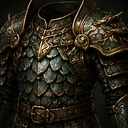
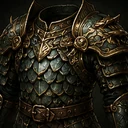
Add files via upload

diff --git a/rpg/index.html b/rpg/index.html
@@ -7,7 +7,7 @@
 <meta name="theme-color" content="#0b0d12">
 <title>貪婪深淵</title>
 <!-- 版本號集中管理：只改這一個 RPG_VER，即同步 CSS／所有 script／標題顯示的版號（破快取用） -->
-<script>window.RPG_VER='382';document.write('<link rel="stylesheet" href="style.css?v='+RPG_VER+'">');</script>
+<script>window.RPG_VER='384';document.write('<link rel="stylesheet" href="style.css?v='+RPG_VER+'">');</script>
 </head>
 <body>
 <div id="app">
@@ -52,6 +52,7 @@
     <div class="hot" data-fx=".199" data-fy=".412" data-fw=".24" data-fh=".12" onclick="openRunStats()"></div>
     <div class="hot" data-fx=".824" data-fy=".487" data-fw=".24" data-fh=".11" onclick="openSmith()"></div>
     <div class="hot" data-fx=".50" data-fy=".575" data-fw=".26" data-fh=".13" onclick="openDivePicker()"></div>
+    <!-- 圖鑑：暫時關閉（改建中）。熱區保留，openCodex 內以 CODEX_ENABLED 擋下並回 toast -->
     <div class="hot" data-fx=".324" data-fy=".693" data-fw=".22" data-fh=".11" onclick="openCodex()"></div>
     <div class="hot" data-fx=".815" data-fy=".824" data-fw=".24" data-fh=".12" onclick="if(G.rec.deep>=30)openMarket();else toast('深入 30 層後解鎖深淵黑市')"></div>
     <div class="hot" data-fx=".208" data-fy=".87" data-fw=".26" data-fh=".11" onclick="openSaveMgr()"></div>

diff --git a/rpg/style.css b/rpg/style.css
@@ -184,11 +184,9 @@ h1.title{
 .enemy-icon>svg{width:87px;height:87px;display:block;color:#cfc6b4;}
 .enemy-icon>img{width:87px;height:87px;object-fit:contain;display:block;-webkit-user-drag:none;user-select:none;}
 .e-wrap.duo .enemy-icon>img{width:63px;height:63px;}
-/* 選取回饋:改用光圈,SVG 與點陣圖通用（點陣圖吃不到 currentColor） */
+/* 選取回饋：雙怪時 .e-wrap.duo .e-block.sel 的外框（上方 177 行）就夠了，
+   不要再加圖示光圈——方框＋圓框同時出現只是噪音。SVG 仍保留染金，點陣圖靠外框。 */
 .e-block.sel .enemy-icon>svg{color:var(--gold);}
-.e-block.sel .enemy-icon::before{content:'';position:absolute;left:50%;top:50%;width:96px;height:96px;margin:-48px 0 0 -48px;
-  border:2px solid var(--gold);border-radius:50%;opacity:.85;box-shadow:0 0 10px var(--gold),inset 0 0 10px rgba(224,178,90,.35);pointer-events:none;}
-.e-wrap.duo .e-block.sel .enemy-icon::before{width:72px;height:72px;margin:-36px 0 0 -36px;}
 .enemy-icon.hit{animation:shake .3s;}
 @keyframes shake{0%{transform:translateX(0)}25%{transform:translateX(-7px)}50%{transform:translateX(6px)}75%{transform:translateX(-3px)}100%{transform:none}}
 /* 狀態染色：中毒染紫、燃燒染紅（emoji 與 SVG 皆適用） */

diff --git a/rpg/items.js b/rpg/items.js
@@ -97,7 +97,10 @@ function slotName(s){ return s==='w'?'武器':s==='a'?'護甲':'飾品'; }
 function itemIconSlug(it){
   if(!it) return null;
   if(it.slot === 'w') return it.wtype || 'sword';
-  return ITEM_ICON[it.name] || null;
+  // ⚠ 護甲/飾品的 it.name 前面接了前綴（PREFIX：「王殞」「精良的」…，傳說還可能再加「詛咒的」），
+  //    所以不能用整串去查表——要比對「字尾」。武器沒踩到是因為它查的是 wtype 不是名字。
+  for(const k in ITEM_ICON) if(it.name && it.name.endsWith(k)) return ITEM_ICON[k];
+  return null;
 }
 function itemIcon(it, cls){
   const slug = itemIconSlug(it);

diff --git a/rpg/交接筆記_v378.md b/rpg/交接筆記_v378.md
@@ -24,6 +24,8 @@
 | v380 | 黑市分頁/懸賞跨輪迴/定價重做 + 兩把法系武器(魔典、咒鈴)——**第四節全部施工完畢** |
 | v381 | 修 `certPool` 誤用 cp 當認證深度(本源通關只刷到 31–41 層的貨) |
 | v382 | 首領 10 隻改點陣圖、新增 16 張裝備圖示(見第九節) |
+| v383 | 圖鑑入口關閉(準備改建),`CODEX_ENABLED=false` |
+| v384 | 修:護甲/飾品圖失效(名稱前綴)、裝備圖裁切偏下、雙怪選取方框+圓框重複 |
 
 ### 1. 輪迴裝備縮放(cycK 制,v367)
 
@@ -560,4 +562,71 @@ e.img ? <img src="mon/{key}.webp"> : (e.svg || e.i)
 
 ---
 
-*交接筆記結束。RPG_VER=382,根 sw.js CACHE=arcade-v13。*
+---
+
+## 十、v383:圖鑑暫時關閉 + 敵人圖進度
+
+### 圖鑑(改建中)
+
+單一開關 `CODEX_ENABLED = false`(data.js)。**關的只有「入口」**:
+
+- `openCodex()` 開頭擋下並回 toast「圖鑑改建中——你殺過的東西還是有記著」,**介面程式碼原封不動保留在下面**,要開回來改一個 bool 就好。
+- **擊殺計數照常累積**進 `R.codexPending` → `G.codex`,首殺 +30🪙 也照常給。重新開放時歷史完整,不會有斷層。
+- 首殺 toast 文案跟著開關走:關閉時顯示「首次擊殺 +30🪙」而不是「圖鑑首錄」——**入口關著還提一個玩家點不進去的東西只會製造困惑**。
+- 營地熱區保留(位置沒動),避免之後開回來又要重排 SVG 座標。
+
+### 敵人圖進度:45/50
+
+| 類別 | 進度 |
+|---|---|
+| 雜魚 | 35/35 ✅ |
+| 小王 | 5/5 ✅ |
+| 域主 | 4/4 ✅ |
+| 最終王 | 1/1 ✅ |
+| **域限精英** | **0/5** ← 只剩這批 |
+
+缺的 5 隻(一域一隻,`REALM_ELITES`):
+
+| key | 名稱 | 域 |
+|---|---|---|
+| `ratking` | 鼠王 | 淺穴 |
+| `priest` | 深潛者祭司 | 沉沒王國 |
+| `stitch` | 縫合巨人 | 血肉迴廊 |
+| `inquis` | 異端審判官 | 無光教區 |
+| `acolyte` | 心之侍者 | 心室 |
+
+`mon/_spare/` 現有 **17 張**備用素材(`B*`=首領級 2 張、`D*`=深底 4 張、`L*`=淺底 11 張)。域限精英介於雜魚與首領之間,`B12`/`B22`(兩張龍)偏首領級、`D43`(綠獸人)/`D52`(牛角獸骨)/`D53`(雪怪)體型合適,但**沒有一張對得上名字**——建議照這 5 個名字專門生一批,不要硬套。
+
+補圖流程仍是三件事:放檔 `mon/<key>.webp`、`REALM_ELITES` 該筆加 `img:1`、`sw.js` 的 `RPG_MON` 補一筆。
+
+---
+
+---
+
+## 十一、v384:實機回報的三個 bug
+
+### 1. 護甲/飾品完全沒套到圖(顯示 emoji 回落)
+
+**成因**:`makeItem` 最後會補前綴——`it.name = pick(PREFIX[rar.id]) + it.name`(傳說還可能再加「詛咒的」)。所以實際名字是「王殞鱗甲」「精良的油燈」,拿整串去查 `ITEM_ICON['鱗甲']` 當然查不到。
+
+**武器沒踩到,是因為它查的是 `it.wtype` 不是名字**——這剛好掩蓋了問題,兩條路徑不一致才會只壞一半。
+
+**修法**:`itemIconSlug` 改比對**字尾**(`name.endsWith(key)`)。已對 12 前綴 × 12 名稱 × 有無詛咒 = **312 種組合全數驗證通過**。
+
+> 教訓:**顯示名(`name`)是會被裝飾的,不能當 key 用。** 未來若要用名字查任何表,一律走字尾比對,或在生成時另存一個乾淨的 key 欄位。
+
+### 2. 裝備圖偏下且被裁切
+
+**成因**:第一版切圖用固定百分比(垂直 8%–78%)去避開底部的中文標籤,但**素材的畫面重心是對齊整格中心的**,所以那個視窗的中心落在 43%,主體被推到偏下、底部超出的部分被切掉。
+
+**修法**:改成**逐格偵測主體 bbox**(亮度高於該格暗底的區域),再以 bbox 中心取正方形、外擴 14% 留白。不再用寫死的百分比。
+
+### 3. 雙怪選取同時出現黃方框與黃圓框
+
+`.e-wrap.duo .e-block.sel` 本來就有金色外框(style.css:177),v382 為了點陣圖又加了一圈 `::before` 光圈——**兩個記號疊在一起只是噪音**。已移除光圈,外框留著。SVG 的染金保留(不影響)。
+
+> 當初加光圈的理由是「點陣圖吃不到 `currentColor`」,但沒先確認**既有的外框已經解決了同一件事**。加新回饋前要先看現有的夠不夠。
+
+---
+
+*交接筆記結束。RPG_VER=384,根 sw.js CACHE=arcade-v13(僅換圖檔內容、檔名未變,靠 RPG_VER 破快取)。*
